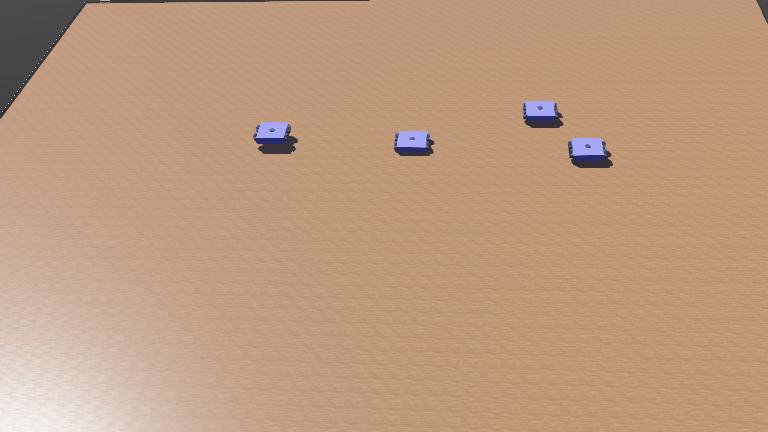
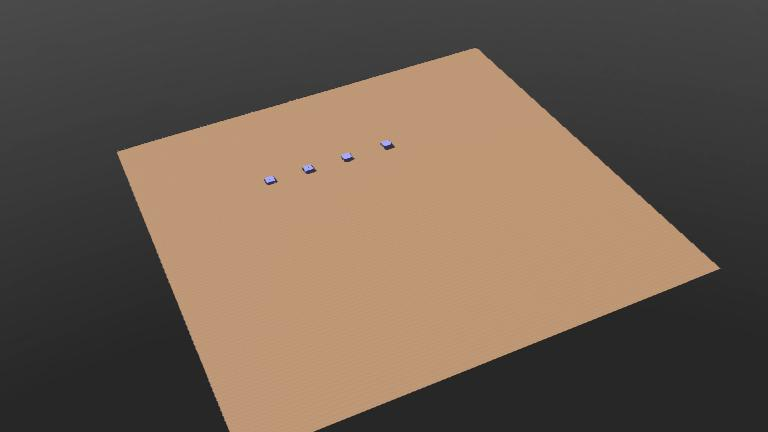
Finished implementing MPC and now it takes waypoints as input

diff --git a/controllers/supervisor_controller/supervisor_controller.py b/controllers/supervisor_controller/supervisor_controller.py
@@ -39,8 +39,13 @@ class Agent:
             return False
 
 # Define Mission parameters
-agent_init_pos_list = [[1.0,1.0,0.0],[7.0, 1.0, 0.0], [5.5, 5.5, 0.0], [0.8, 5.5, 0.0]]
-agent_goal_pos_list = [[7.0, 1.0, 0.0], [1.0, 1.0, 0.0], [0.8, 5.5, 0.0], [5.5, 5.5, 0.0]]
+agent_init_pos_list = [[-10.16,10.00,0.0],[-5.5, 10.15, 0.0], [-0.65, 10.1, 0.0], [4.5, 10.06, 0.0]]
+agent0_waypoints = np.array([[-10.16,10.00],[-10.16, 5.0], [-10.16, 0.0], [-5.0, 5.0]]) #[[x1,y1],[x2,y2],...]
+agent1_waypoints = np.array([[-5.5, 10.15],[-11.92, 10.15], [-11.92, 3.63], [-15.26, 7.92]])
+agent2_waypoints = np.array([[-0.65, 10.1],[-0.65, 3.21], [3.58, -2.58], [-2.43, -8.48]])
+agent3_waypoints = np.array([[4.5, 10.06],[8.72, 10.06], [3.03, 4.31], [10.74, -3.65]])
+agent_waypoint_list = [agent0_waypoints, agent1_waypoints, agent2_waypoints, agent3_waypoints]
+target_speed = 2.5 # m/s
 
 # MPC controller parameters
 Q = np.diag([1.0, 0.15, 1.0, 0.15])
@@ -103,6 +108,10 @@ agent_list = [agent_0, agent_1, agent_2, agent_3]
 # MPC initialization
 agent_MPC_list = []
 agent_x_ref_list = []
+Agent0_target_idx, Agent1_target_idx, Agent2_target_idx, Agent3_target_idx = 0, 0, 0, 0
+agent_target_idx_list = [Agent0_target_idx, Agent1_target_idx, Agent2_target_idx, Agent3_target_idx]
+agent_x_local_ref_list = [None, None, None, None]
+agent_command_list = [None, None, None, None]
 
 for i in range(len(agent_list)):
     '''
@@ -119,6 +128,11 @@ for i in range(len(agent_list)):
         control_weight=R,  # R matrix
         # Initialize initial state with 0 velocities in x, y direction
         x_init=agent_list[i].return_state()))
+    
+    agent_x_ref_list.append(agent_MPC_list[i].waypoints_to_x_ref(agent_waypoint_list[i], interpolated_dist=0.25,
+                                                                 target_speed=target_speed, interpolation_type="linear"))
+
+
 
 # Main loop:
 # - perform simulation steps until Webots is stopping the controller
@@ -130,23 +144,50 @@ while supervisor_robot.step(timestep) != -1:
             agent.update_state(ast.literal_eval(agent_receiver.getString()))
             agent_receiver.nextPacket()
     
+    agent_current_state_list = [agent.return_state() for agent in agent_list]
 
+    for i in range(len(agent_list)):
+        agent_x_local_ref_list[i], agent_target_idx_list[i] = agent_MPC_list[i].calculate_local_reference(
+            agent_x_ref_list[i], agent_list[i].return_state(), agent_target_idx_list[i]
+        )
+        _, _, _, _, u1_traj, u2_traj = agent_MPC_list[i].mpc_control(
+            agent_x_local_ref_list[i], agent_list[i].return_state()
+        )
+
+        agent_command_list[i] = "[{}, {}, 0]".format(
+            agent_current_state_list[i][1]+u1_traj[0] * DT,
+            agent_current_state_list[i][3]+u2_traj[0] * DT,
+            0,
+        )
+    
+    for emitter, agent_command in zip(agent_emitter_list, agent_command_list):
+        emitter.send(agent_command)
+    
+    '''
+
+    agent0_x_local_ref, agent_target_idx_list[0] = agent_MPC_list[0].calculate_local_reference(agent_x_ref_list[0], agent_list[0].return_state(), agent_target_idx_list[0])
+    _, _, _, _, u1_traj, u2_traj = agent_MPC_list[0].mpc_control(agent0_x_local_ref, agent_list[0].return_state())
+    
     # Agent 0 Control 
-    agent0_cmd_vel = "[1.0, 0.0, 0]"
+    # agent0_cmd_vel = "[1.0, 0.0, 0]"
+    agent0_cmd_vel = "[{}, {}, 0]".format(
+        agent_list[0].return_vel()[0]+u1_traj[0] * DT,
+        agent_list[0].return_vel()[1]+u2_traj[0] * DT,
+        0,
+    )
     control_agent0_emitter.send(agent0_cmd_vel)
     
     # Agent 1 Control
-    agent1_cmd_vel = "[1.0, 0.0, 0]"
+    agent1_cmd_vel = "[0.0, 0.0, 0]"
     control_agent1_emitter.send(agent1_cmd_vel)
     
     # Agent 2 Control
-    agent2_cmd_vel = "[0.0, 1.0, 0]"
+    agent2_cmd_vel = "[0.0, 0.0, 0]"
     control_agent2_emitter.send(agent2_cmd_vel)
     
     # Agent 3 Control
-    agent3_cmd_vel = "[0.0, -1.0, 0]"
+    agent3_cmd_vel = "[0.0, 0.0, 0]"
     control_agent3_emitter.send(agent3_cmd_vel)
-    
+    '''
     pass
 
-# Enter here exit cleanup code.
